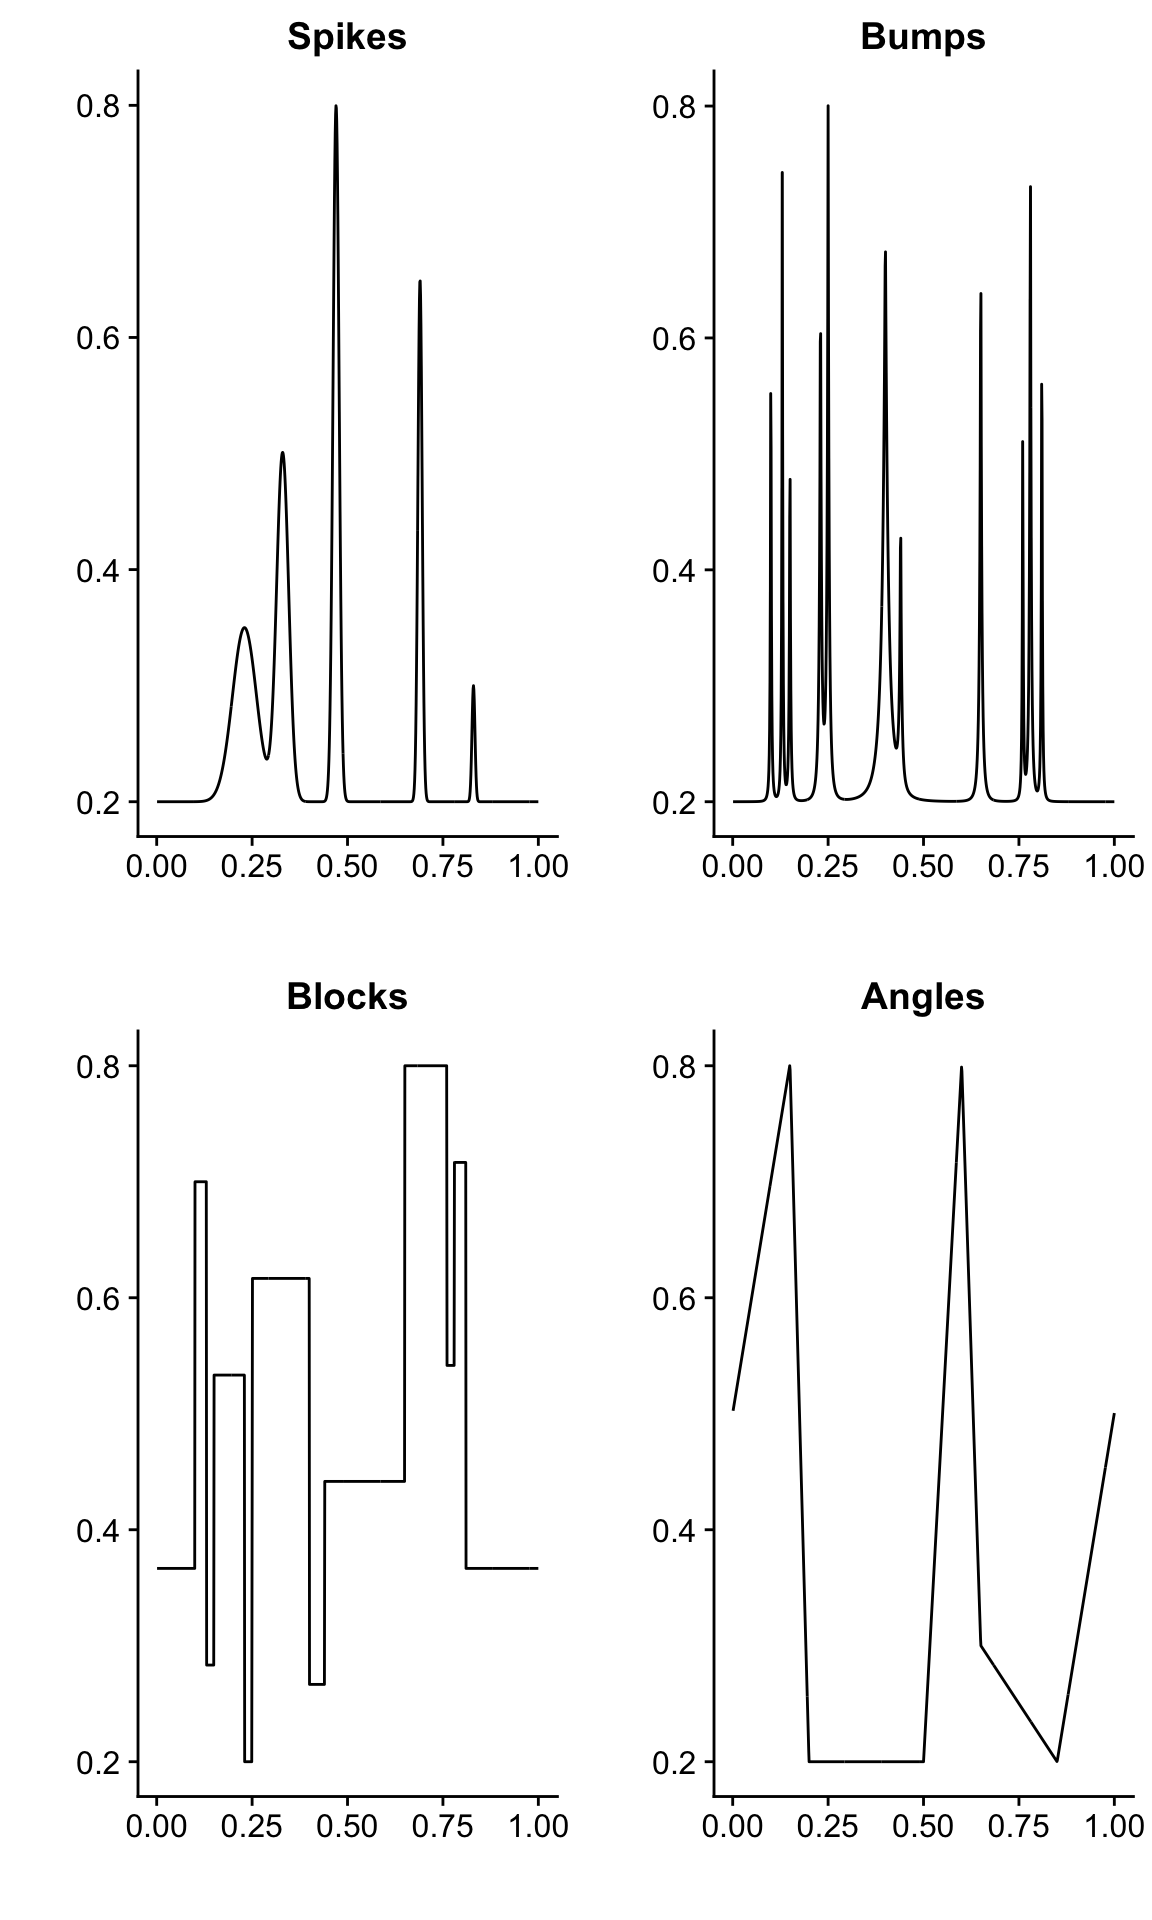
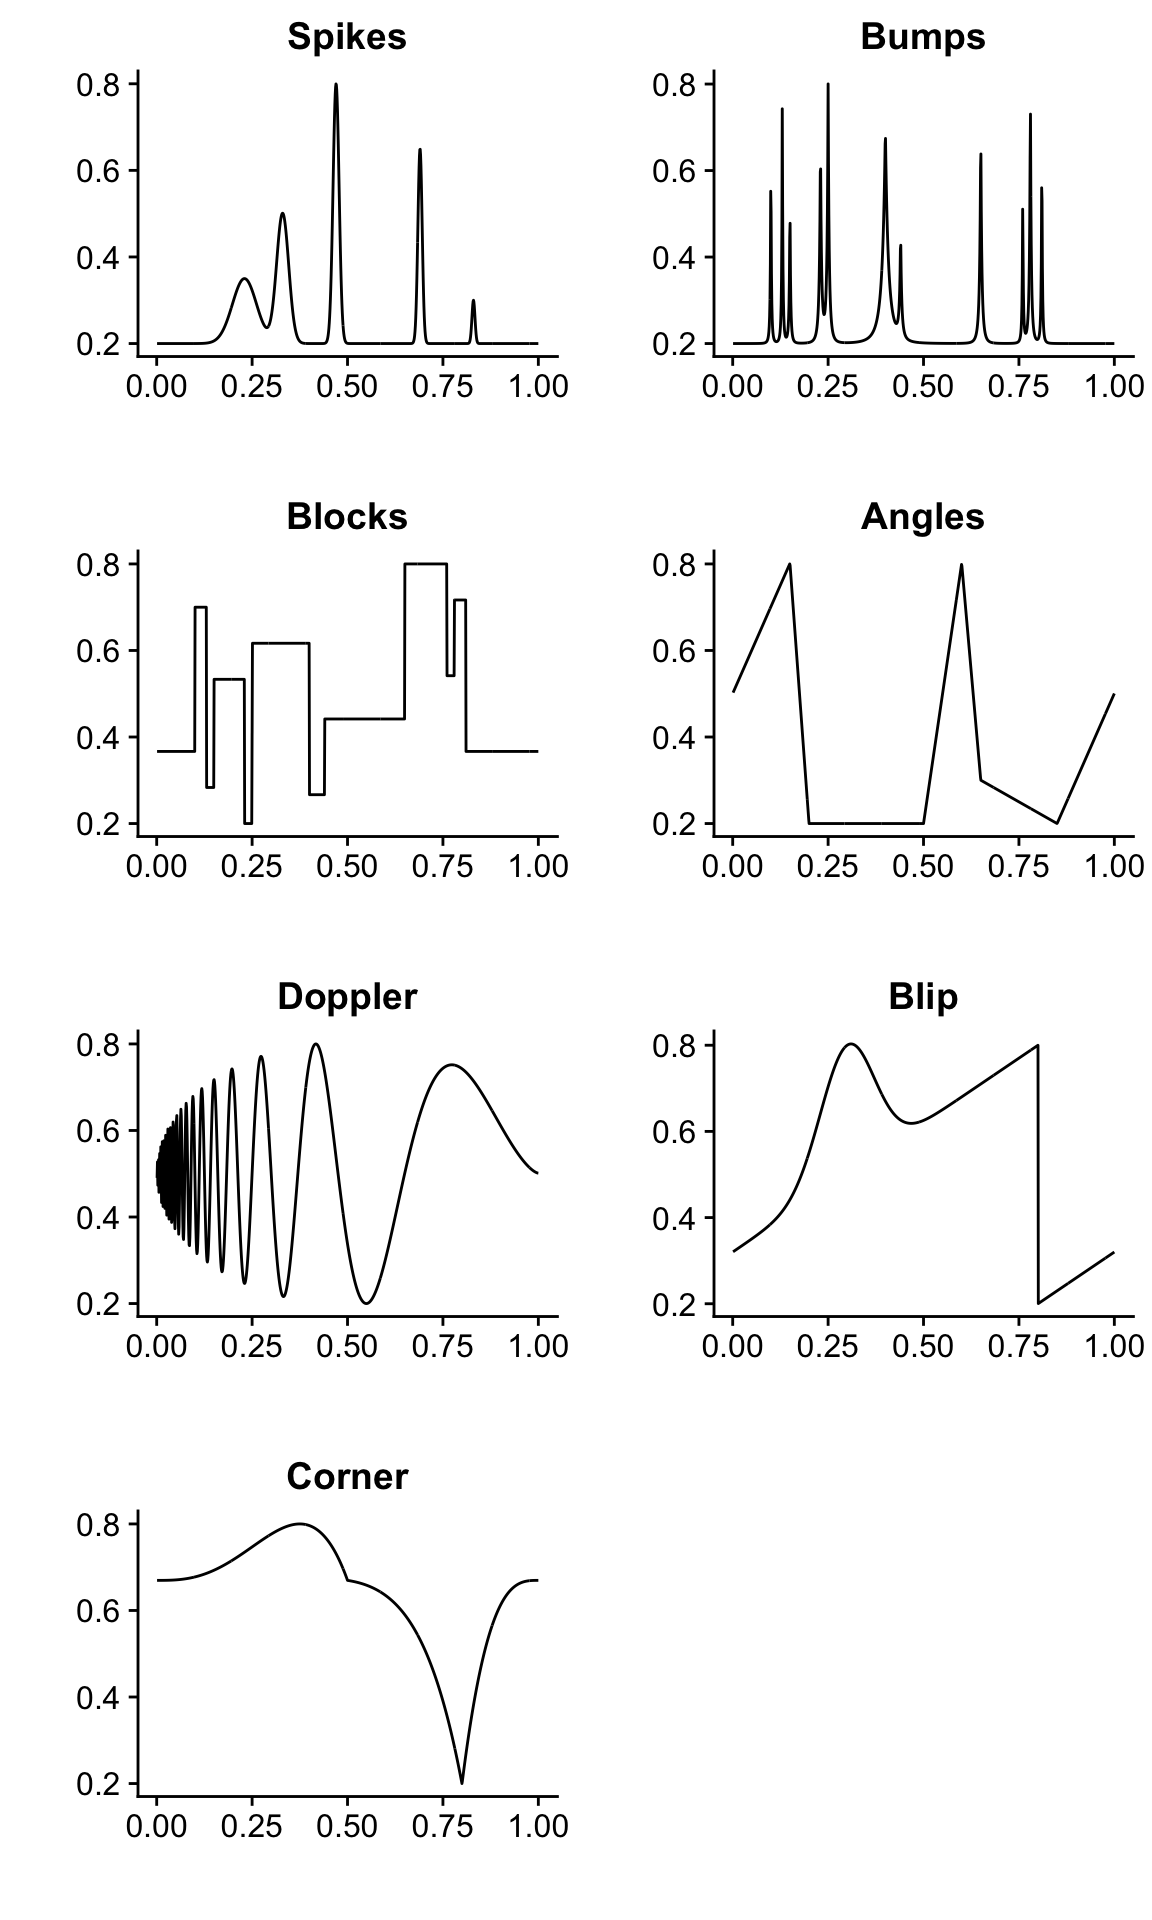
I now have plots of all the mean functions in gaussian_signals.Rmd.

diff --git a/docs/gaussian_signals.html b/docs/gaussian_signals.html
@@ -241,7 +241,7 @@ div.section {
 </details>
 </li>
 <li>
-<p><details> <summary> <strong style="color:blue;">✔</strong> <strong>Repository version:</strong> <a href="https://github.com/stephenslab/smash-paper/tree/2ab6ac046a1ccf4297eb4285cad8e2209204975c" target="_blank">2ab6ac0</a> </summary></p>
+<p><details> <summary> <strong style="color:blue;">✔</strong> <strong>Repository version:</strong> <a href="https://github.com/stephenslab/smash-paper/tree/a8b97227a8d490082a4cef04d0c8c5b8339f1d3b" target="_blank">a8b9722</a> </summary></p>
 Great! You are using Git for version control. Tracking code development and connecting the code version to the results is critical for reproducibility. The version displayed above was the version of the Git repository at the time these results were generated. <br><br> Note that you need to be careful to ensure that all relevant files for the analysis have been committed to Git prior to generating the results (you can use <code>wflow_publish</code> or <code>wflow_git_commit</code>). workflowr only checks the R Markdown file, but you know if there are other scripts or data files that it depends on. Below is the status of the Git repository when the results were generated:
 <pre><code>
 Ignored files:
@@ -300,6 +300,23 @@ Message
 </tr>
 </thead>
 <tbody>
+<tr>
+<td style="text-align:left;">
+Rmd
+</td>
+<td style="text-align:left;">
+<a href="https://github.com/stephenslab/smash-paper/blob/a8b97227a8d490082a4cef04d0c8c5b8339f1d3b/analysis/gaussian_signals.Rmd" target="_blank">a8b9722</a>
+</td>
+<td style="text-align:left;">
+Peter Carbonetto
+</td>
+<td style="text-align:left;">
+2018-12-04
+</td>
+<td style="text-align:left;">
+wflow_publish(“gaussian_signals.Rmd”)
+</td>
+</tr>
 <tr>
 <td style="text-align:left;">
 Rmd
@@ -423,11 +440,12 @@ var5 = var5/max(var5)</code></pre>
 <pre class="r"><code>plot_grid(qplot(t,mu.sp,  geom = &quot;line&quot;,xlab = &quot;&quot;,ylab = &quot;&quot;,main = &quot;Spikes&quot;),
           qplot(t,mu.bump,geom = &quot;line&quot;,xlab = &quot;&quot;,ylab = &quot;&quot;,main = &quot;Bumps&quot;),
           qplot(t,mu.blk, geom = &quot;line&quot;,xlab = &quot;&quot;,ylab = &quot;&quot;,main = &quot;Blocks&quot;),
-          qplot(t,mu.ang, geom = &quot;line&quot;,xlab = &quot;&quot;,ylab = &quot;&quot;,main = &quot;Angles&quot;))</code></pre>
+          qplot(t,mu.ang, geom = &quot;line&quot;,xlab = &quot;&quot;,ylab = &quot;&quot;,main = &quot;Angles&quot;),
+          qplot(t,mu.dop, geom = &quot;line&quot;,xlab = &quot;&quot;,ylab = &quot;&quot;,main = &quot;Doppler&quot;),
+          qplot(t,mu.blip,geom = &quot;line&quot;,xlab = &quot;&quot;,ylab = &quot;&quot;,main = &quot;Blip&quot;),
+          qplot(t,mu.cor, geom = &quot;line&quot;,xlab = &quot;&quot;,ylab = &quot;&quot;,main = &quot;Corner&quot;),
+          nrow = 4,ncol = 2)</code></pre>
 <p><img src="figure/gaussian_signals.Rmd/plot-mean-functions-1.png" width="576" style="display: block; margin: auto;" /></p>
-<pre class="r"><code># plot(t,mu.dop,xlab = &quot;&quot;,ylab = &quot;&quot;,type = &quot;l&quot;,main = &quot;Doppler mean function&quot;)
-# plot(t,mu.blip,xlab = &quot;&quot;,ylab = &quot;&quot;,type = &quot;l&quot;,main = &quot;Blip mean function&quot;)
-# plot(t,mu.cor,xlab = &quot;&quot;,ylab = &quot;&quot;,type = &quot;l&quot;,main = &quot;Corner mean function&quot;)</code></pre>
 </div>
 <div id="plot-the-signal-variances" class="section level2">
 <h2>Plot the signal variances</h2>
